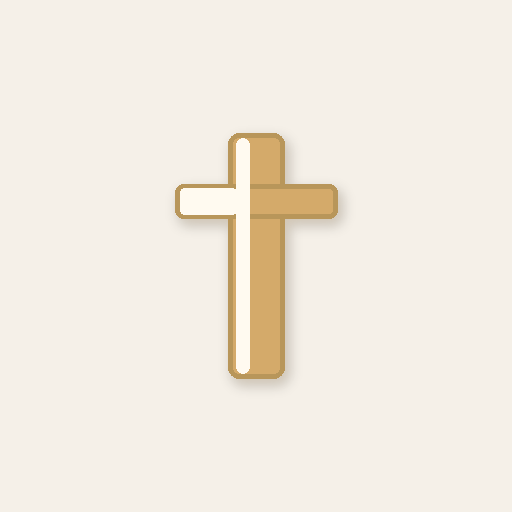
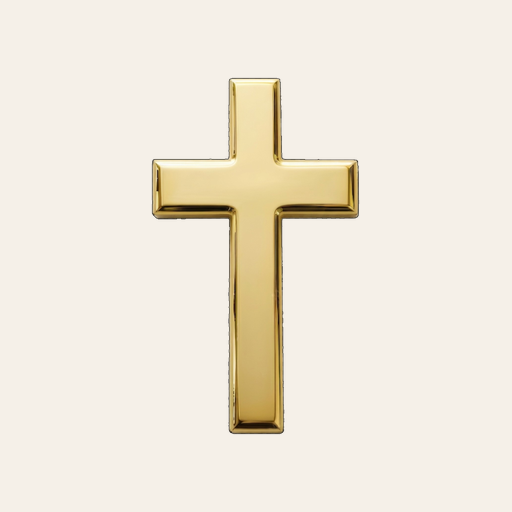
Add files via upload

Changed region(s): [[0.2812, 0.125, 0.7188, 0.875]]

diff --git a/index.html b/index.html
@@ -526,30 +526,30 @@ window.APP_CONFIG = {
 <meta name="application-name" content="가톨릭길동무">
 <meta name="mobile-web-app-capable" content="yes">
 <meta name="theme-color" content="#f5f0e8">
-<link rel="manifest" href="manifest.json?v=V3-27">
-<link rel="apple-touch-icon" sizes="180x180" href="icon-512x512.png?v=V3-27">
-<link rel="apple-touch-icon-precomposed" sizes="180x180" href="icon-512x512.png?v=V3-27">
+<link rel="manifest" href="manifest.json?v=V3-28">
+<link rel="apple-touch-icon" sizes="180x180" href="icon-512x512.png?v=V3-28">
+<link rel="apple-touch-icon-precomposed" sizes="180x180" href="icon-512x512.png?v=V3-28">
 <meta name="format-detection" content="telephone=no">
 <meta name="description" content="가톨릭길동무 - 가톨릭 신앙생활 종합 앱">
 <meta property="og:type" content="website">
 <meta property="og:site_name" content="가톨릭길동무">
 <meta property="og:title" content="가톨릭길동무">
 <meta property="og:description" content="성지 · 성당 · 기도문 · 순례길 · 가톨릭 웹사이트 안내">
-<meta property="og:image" content="icon-512x512.png?v=V3-27">
+<meta property="og:image" content="icon-512x512.png?v=V3-28">
 <meta property="og:image:width" content="512">
 <meta property="og:image:height" content="512">
 <meta name="twitter:card" content="summary">
 <meta name="twitter:title" content="가톨릭길동무">
 <meta name="twitter:description" content="성지 · 성당 · 기도문 · 순례길 · 가톨릭 웹사이트 안내">
-<meta name="twitter:image" content="icon-512x512.png?v=V3-27">
+<meta name="twitter:image" content="icon-512x512.png?v=V3-28">
 <title>가톨릭길동무</title>
-<link rel="icon" type="image/png" sizes="192x192" href="icon-192x192.png?v=V3-27">
+<link rel="icon" type="image/png" sizes="192x192" href="icon-192x192.png?v=V3-28">
 <link rel="preconnect" href="https://fonts.googleapis.com">
 <link rel="stylesheet" href="https://cdnjs.cloudflare.com/ajax/libs/font-awesome/6.4.0/css/all.min.css">
 <link href="https://fonts.googleapis.com/css2?family=Noto+Sans+KR:wght@400;500;600;700&display=swap" rel="stylesheet">
 
 <style id="oai-initial-bg">html,body{margin:0;width:100%;height:100%;min-height:100%;background:#f5f0e8;overflow:hidden;color-scheme:light;}#cover{background:#f5f0e8;min-height:100%;}#app{background:#f8f6f2;display:none;}</style>
-<link rel="stylesheet" href="style.css?v=V3-27">
+<link rel="stylesheet" href="style.css?v=V3-28">
 </head>
 <body>
 <div id="missa-view" role="dialog" aria-modal="true" aria-label="매일미사">
@@ -723,30 +723,30 @@ window.APP_CONFIG = {
         <div class="ios-safari-step">
           <b>1</b>
           <span>카카오톡 하단 버튼 4개 중 <strong>오른쪽 끝 버튼</strong>을 누르세요.</span>
-          <img data-src="ios-install-step1-kakao-bottom-buttons.png?v=V3-27" alt="카카오톡 오른쪽 아래 버튼 모양" width="945" height="248" loading="lazy" decoding="async">
+          <img data-src="ios-install-step1-kakao-bottom-buttons.png?v=V3-28" alt="카카오톡 오른쪽 아래 버튼 모양" width="945" height="248" loading="lazy" decoding="async">
         </div>
         <div class="ios-safari-step">
           <b>2</b>
           <span>공유 화면에서 <strong>Safari로 열기</strong>를 누르세요.</span>
-          <img data-src="ios-install-step2-safari-open.png?v=V3-27" alt="Safari로 열기 버튼" width="880" height="755" loading="lazy" decoding="async" fetchpriority="low">
+          <img data-src="ios-install-step2-safari-open.png?v=V3-28" alt="Safari로 열기 버튼" width="880" height="755" loading="lazy" decoding="async" fetchpriority="low">
         </div>
         <div class="ios-safari-step">
           <b>3</b>
           <span>Safari로 열린 뒤, 화면 <strong>오른쪽 아래 ··· 버튼</strong>을 누르세요.</span>
           <div class="ios-safari-shot ios-safari-shot-more">
-            <img data-src="KakaoTalk_20260514_134255658_04.jpg?v=V3-27" alt="Safari 오른쪽 아래 더보기 버튼" width="960" height="307" loading="lazy" decoding="async">
+            <img data-src="KakaoTalk_20260514_134255658_04.jpg?v=V3-28" alt="Safari 오른쪽 아래 더보기 버튼" width="960" height="307" loading="lazy" decoding="async">
             <i class="ios-gold-highlight" aria-hidden="true"></i>
           </div>
         </div>
         <div class="ios-safari-step">
           <b>4</b>
           <span>열린 메뉴에서 <strong>공유</strong>를 누르세요.</span>
-          <img data-src="ios-install-step3-share-menu.png?v=V3-27" alt="Safari 공유 버튼" width="750" height="580" loading="lazy" decoding="async" fetchpriority="low">
+          <img data-src="ios-install-step3-share-menu.png?v=V3-28" alt="Safari 공유 버튼" width="750" height="580" loading="lazy" decoding="async" fetchpriority="low">
         </div>
         <div class="ios-safari-step">
           <b>5</b>
           <span>목록을 아래로 내려 <strong>홈 화면에 추가</strong>를 누르세요.</span>
-          <img data-src="ios-install-step4-home-screen.png?v=V3-27" alt="홈 화면에 추가 버튼" width="865" height="750" loading="lazy" decoding="async" fetchpriority="low">
+          <img data-src="ios-install-step4-home-screen.png?v=V3-28" alt="홈 화면에 추가 버튼" width="865" height="750" loading="lazy" decoding="async" fetchpriority="low">
         </div>
       </div>
     </div>
@@ -811,7 +811,7 @@ window.APP_CONFIG = {
   📲 홈 화면에 앱 설치하기
 </button>
 </div>
-<script src="app.js?v=V3-27"></script>
+<script src="app.js?v=V3-28"></script>
 <div id="oai-category-entry-veil" aria-hidden="true"></div>
 <div id="app"><div id="tabbar"><button id="tab-btn-nearby" class="tab-btn" data-tab="nearby"><span class="tab-icon">📍</span><span id="tab-nearby-lbl">내주변</span></button><button id="tab-btn-list" class="tab-btn" data-tab="list"><span class="tab-icon">📋</span><span id="tab-list-lbl">목록</span></button><button id="tab-btn-region" class="tab-btn" data-tab="region"><span class="tab-icon">🔍</span>지역검색
     </button><button id="tab-btn-route" class="tab-btn" data-tab="route"><span class="tab-icon">🧭</span>길찾기
@@ -887,13 +887,13 @@ window.APP_CONFIG = {
     </div>
   </div>
 </div>
-<script src="web.js?v=V3-27"></script>
+<script src="web.js?v=V3-28"></script>
 
 <div id="qna-view" role="dialog" aria-modal="true" aria-label="문의·건의" class="module-view"><div class="module-bar qna"><div class="module-bar-main"><div class="module-bar-ico">✝</div><div class="module-bar-txt"><div class="module-bar-title">문의·건의</div><div class="module-bar-sub">질문, 오류, 수정요청을 남겨주세요</div></div></div><button id="qna-close-btn" class="module-close" aria-label="문의·건의 닫기">×</button></div><div class="qna-body"><div class="qna-tabs"><button id="qna-tab-write" class="qna-tab on" type="button">작성</button></div><div class="qna-list" id="qna-list"></div></div></div>
 
-<script src="patches.js?v=V3-27"></script>
+<script src="patches.js?v=V3-28"></script>
 
-<script src="sw-update.js?v=V3-27"></script>
+<script src="sw-update.js?v=V3-28"></script>
 
 
 

diff --git a/sw.js b/sw.js
@@ -1,22 +1,22 @@
-/* 가톨릭길동무 Service Worker - V3-27
+/* 가톨릭길동무 Service Worker - V3-28
    iOS viewport height stability patch
    캐시를 매번 삭제하지 않고, 버전 변경 시 오래된 캐시만 정리합니다.
    localStorage/사용자 설정은 건드리지 않습니다. */
-const CACHE_VERSION = 'catholic-way-V3-27';
+const CACHE_VERSION = 'catholic-way-V3-28';
 /* 다이어트 1: 첫 실행에 꼭 필요한 앱 셸만 선캐시합니다.
    성당/성지/피정의집/기도문/관구교구/문의 페이지는 versioned fetch 시 cacheFirst로 저장됩니다. */
 const APP_SHELL = [
   './',
   './index.html',
-  './style.css?v=V3-27',
-  './app.js?v=V3-27',
-  './web.js?v=V3-27',
-  './patches.js?v=V3-27',
-  './sw-update.js?v=V3-27',
-  './manifest.json?v=V3-27',
-  './icon-192x192.png?v=V3-27',
-  './icon-512x512.png?v=V3-27',
-  './icon-512x512-maskable.png?v=V3-27',
+  './style.css?v=V3-28',
+  './app.js?v=V3-28',
+  './web.js?v=V3-28',
+  './patches.js?v=V3-28',
+  './sw-update.js?v=V3-28',
+  './manifest.json?v=V3-28',
+  './icon-192x192.png?v=V3-28',
+  './icon-512x512.png?v=V3-28',
+  './icon-512x512-maskable.png?v=V3-28',
 ];
 
 

diff --git a/sw-update.js b/sw-update.js
@@ -10,7 +10,7 @@
   // SW_BUILD_VERSION:  SW 등록·캐시 키용 전체 버전 (sw.js BUILD_VERSION과 일치해야 함)
   // ★ 버전 업그레이드 시 두 값 모두 수정, sw.js BUILD_VERSION과 SW_BUILD_VERSION을 동일하게 맞출 것
   var APP_VERSION = 'V2';
-  var SW_BUILD_VERSION = 'V3-27';
+  var SW_BUILD_VERSION = 'V3-28';
   window.APP_VERSION = APP_VERSION;
 
   function now(){ return Date.now ? Date.now() : new Date().getTime(); }